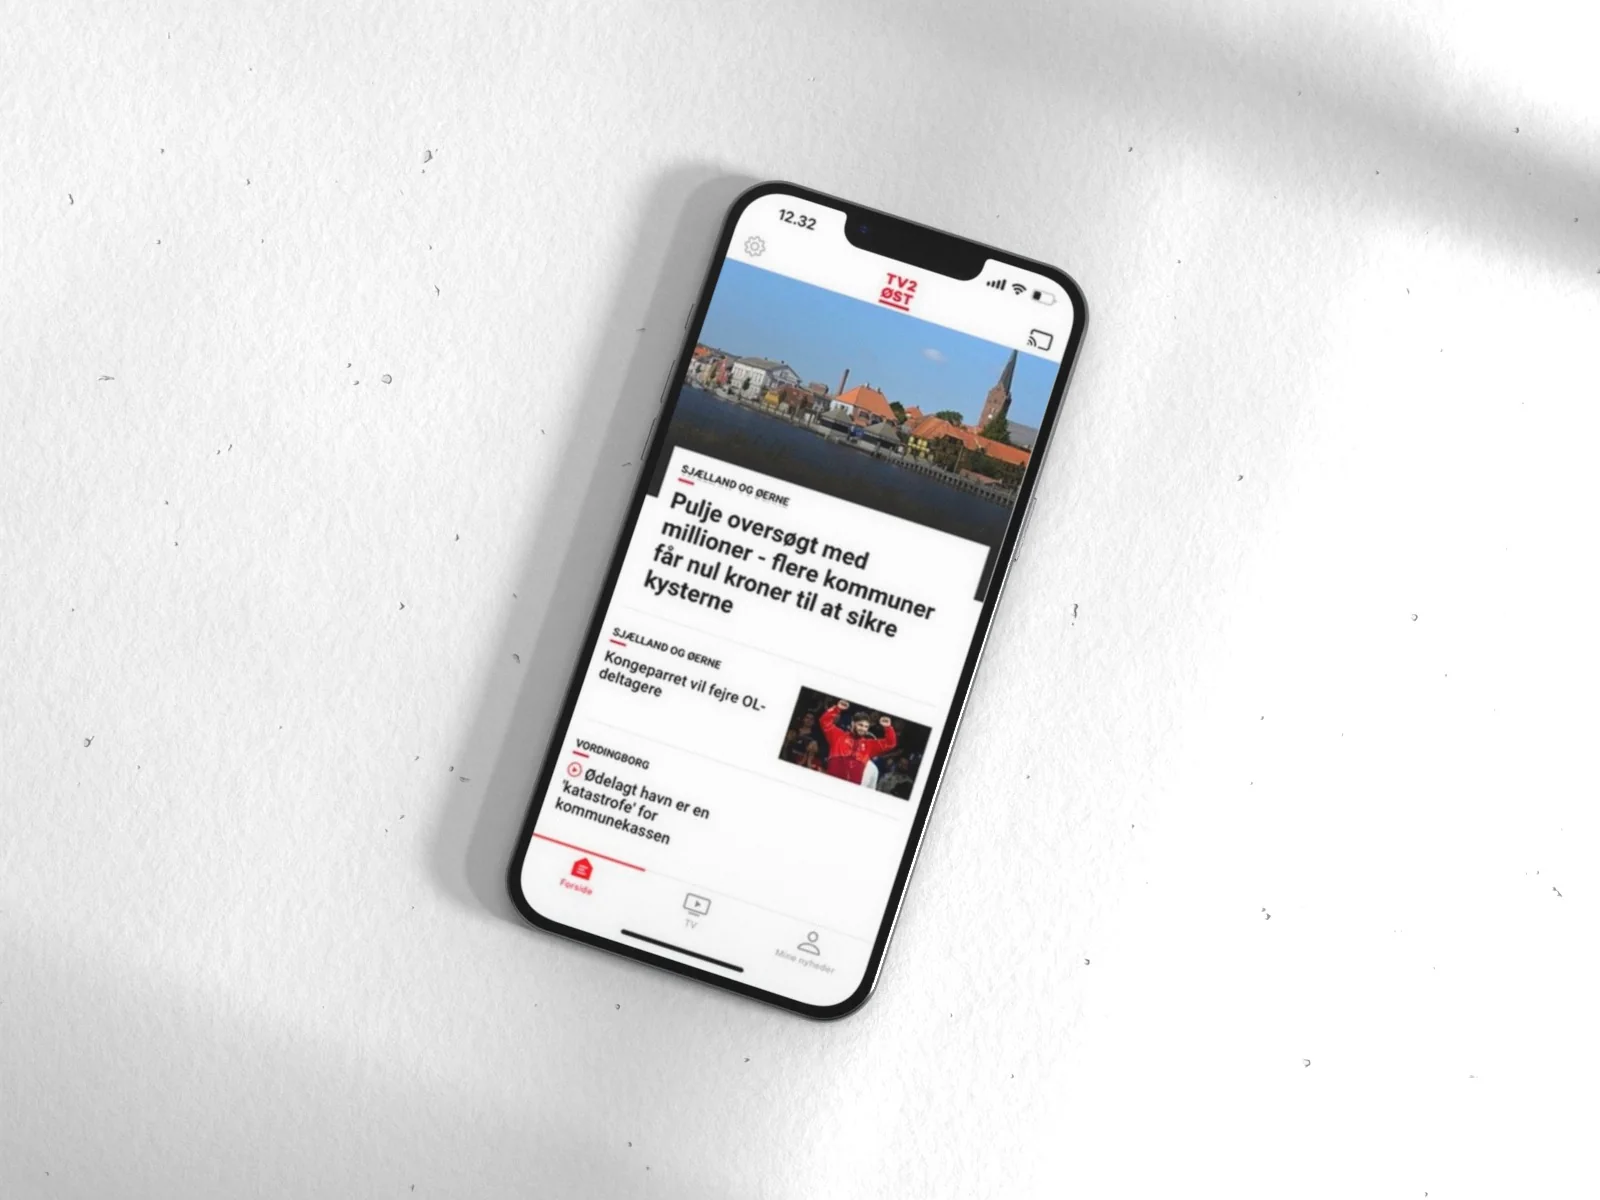
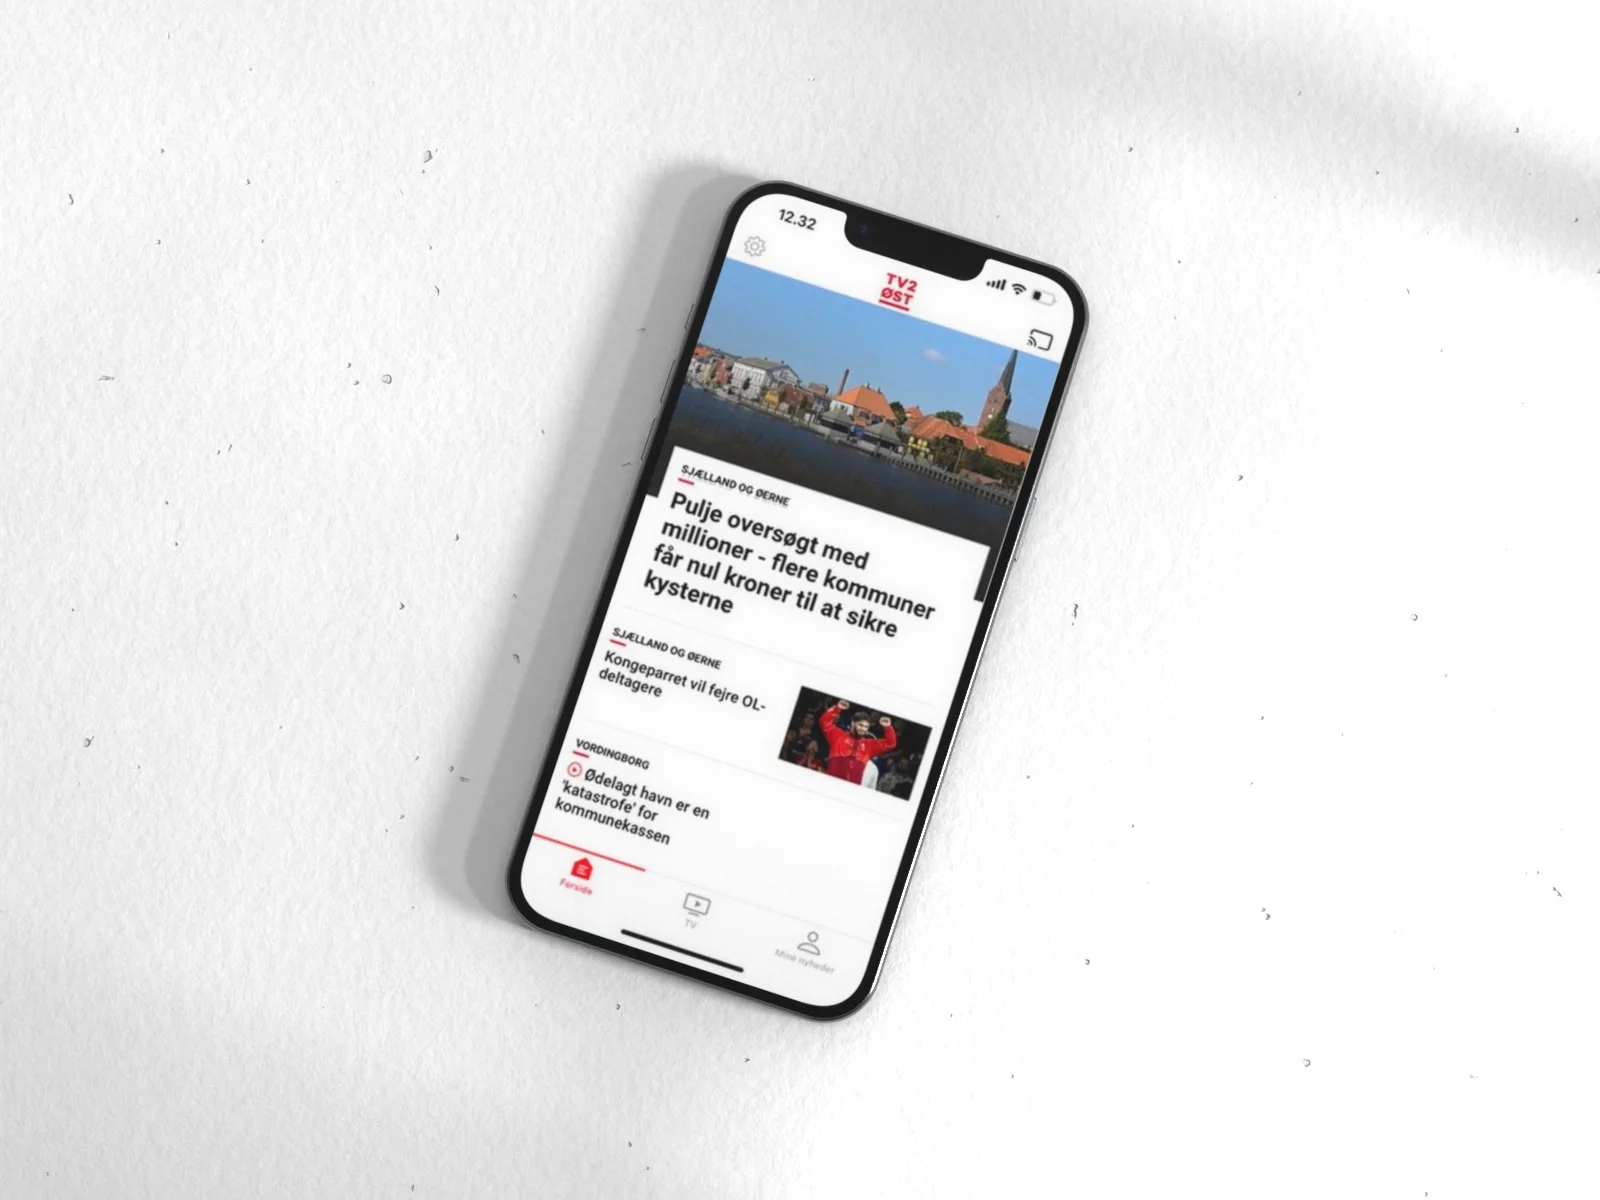
TV2: the tall cover's and small-screen cut's window shade as light as the header's
Close up, the same cut-out darkened the floor about twice as much as in
the wide shot, measured as the spread of the floor's brightness. The two
close-up versions now take the shared setting at about half the shade,
and measure the same as the header.

Claude-Session: https://claude.ai/code/session_01TWSyw7ZJuA1HWZNDHNnh3M

Changed region(s): [[0.5625, 0.0, 1.0, 0.2467], [0.3125, 0.9867, 0.375, 1.0]]

diff --git a/_covers/scenes.py b/_covers/scenes.py
@@ -50,6 +50,7 @@ RES['donkey']=(1920,1280)
 # Every version of a case (cover, small-screen cut, header shot) takes its light from here, so the light
 # can never drift apart between them. Values are figure_shadow's.
 TV2_WINDOW=dict(az=70, el=40, spread=3.8, shade=0.7, strength=0.6)
+TV2_NEAR=float(os.environ.get('NEAR','0.52'))   # matched by measurement: the shade's contrast on the floor equals the wide shot's
 
 def tv2():
     # D: lying on the floor, from straight above, a panel's soft shadow across the floor
@@ -64,6 +65,7 @@ def tv2():
         hd=bool(os.environ.get('HEADER'))   # the wide shot needs a larger cut-out further off to cover its floor; the light it makes is the same
         L_=dict(TV2_WINDOW); L_['strength']=float(os.environ.get('SUN',L_['strength']))
         if hd: L_['spread']=0.45   # further off, so a smaller sun makes the same softness on the floor
+        else: L_['shade']*=TV2_NEAR   # close up, the same cut-out darkens the floor about twice as much as in the wide shot
         figure_shadow('window', T+'shadows/window.png', (0.10, 0.09, 0.031), width=1.0 if hd else 0.55, dist=0.85 if hd else 0.10, only_sun=False, **L_)
         pnl.visible_shadow=False   # the window gives the light; the panel's shadow would end abruptly in the wide shot, and the tall cover matches it
 RES['tv2']=(1440,1800)
@@ -149,7 +151,7 @@ def tv2s():
     rig,H,Tk,scr=phone(T+'tv2.png'); rig.rotation_euler=Euler((math.radians(-90),0,math.radians(-18)),'XYZ'); rig.location=(0.0,0.0,0.03+Tk/2)
     camera((0.0,-0.09,0.03+0.70),(0.0,0.0,0.03), lens=85, fstop=8); sheen(scr, slide=(-0.7,0.3,0))
     if PEOPLE:   # morning: the window's light across the floor, the phone in one pane of it
-        L_=dict(TV2_WINDOW); L_['strength']=float(os.environ.get('SUN',L_['strength']))
+        L_=dict(TV2_WINDOW); L_['strength']=float(os.environ.get('SUN',L_['strength'])); L_['shade']*=TV2_NEAR
         figure_shadow('window', T+'shadows/window.png', (0.10, 0.09, 0.031), width=0.55, dist=0.10, only_sun=False, **L_)
 RES['tv2s']=(1600,1200)
 
